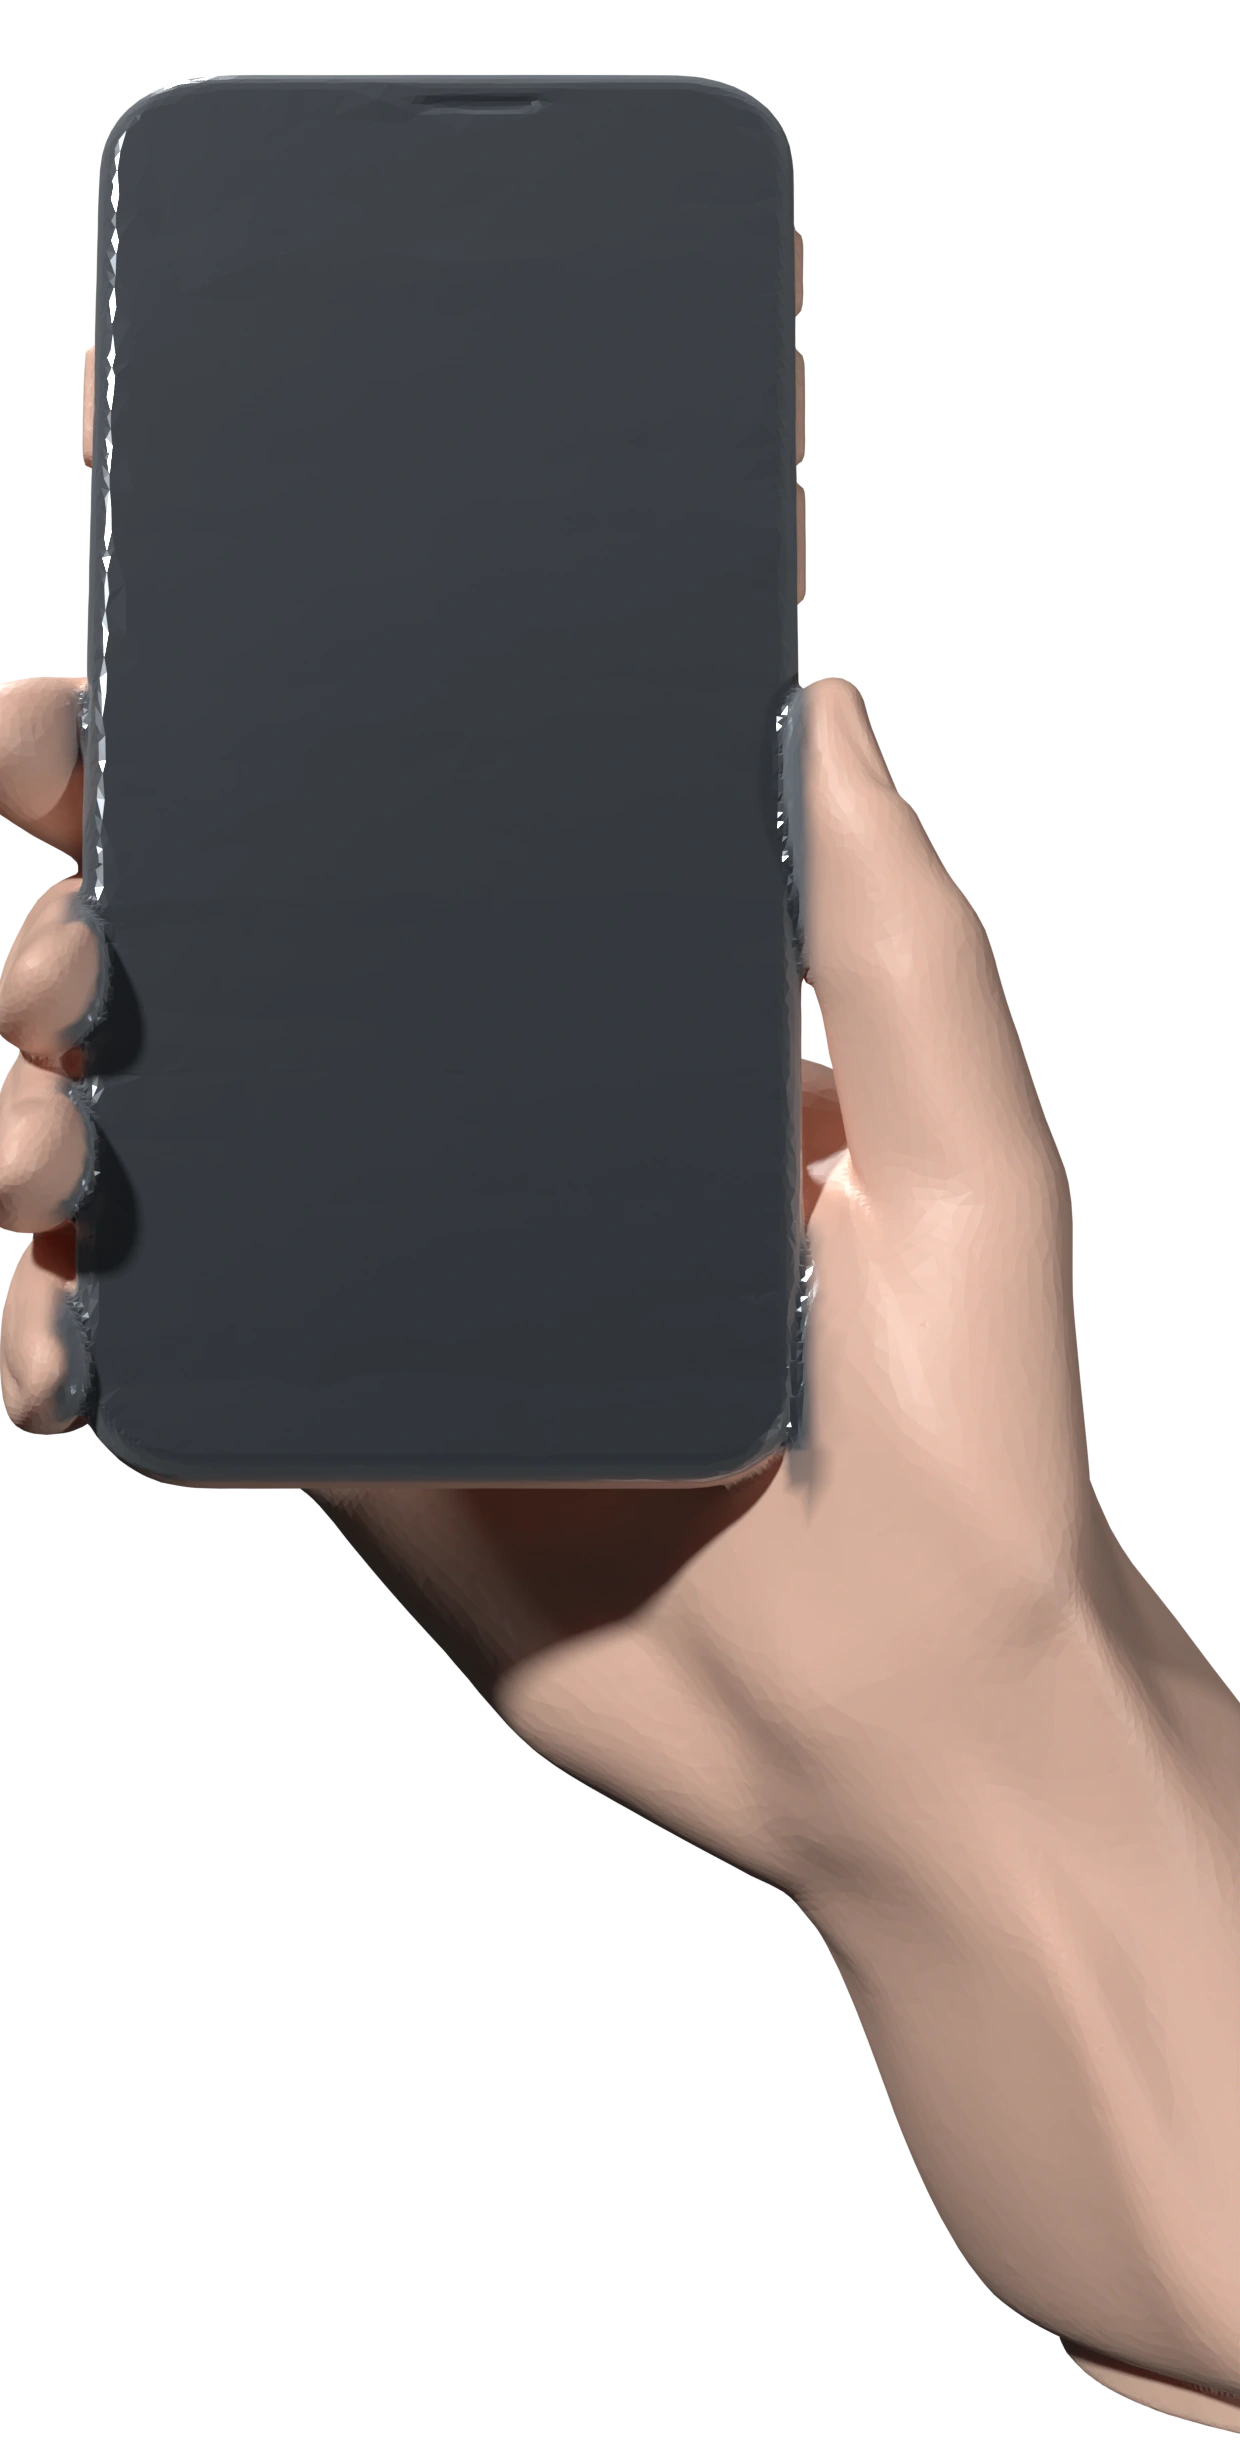
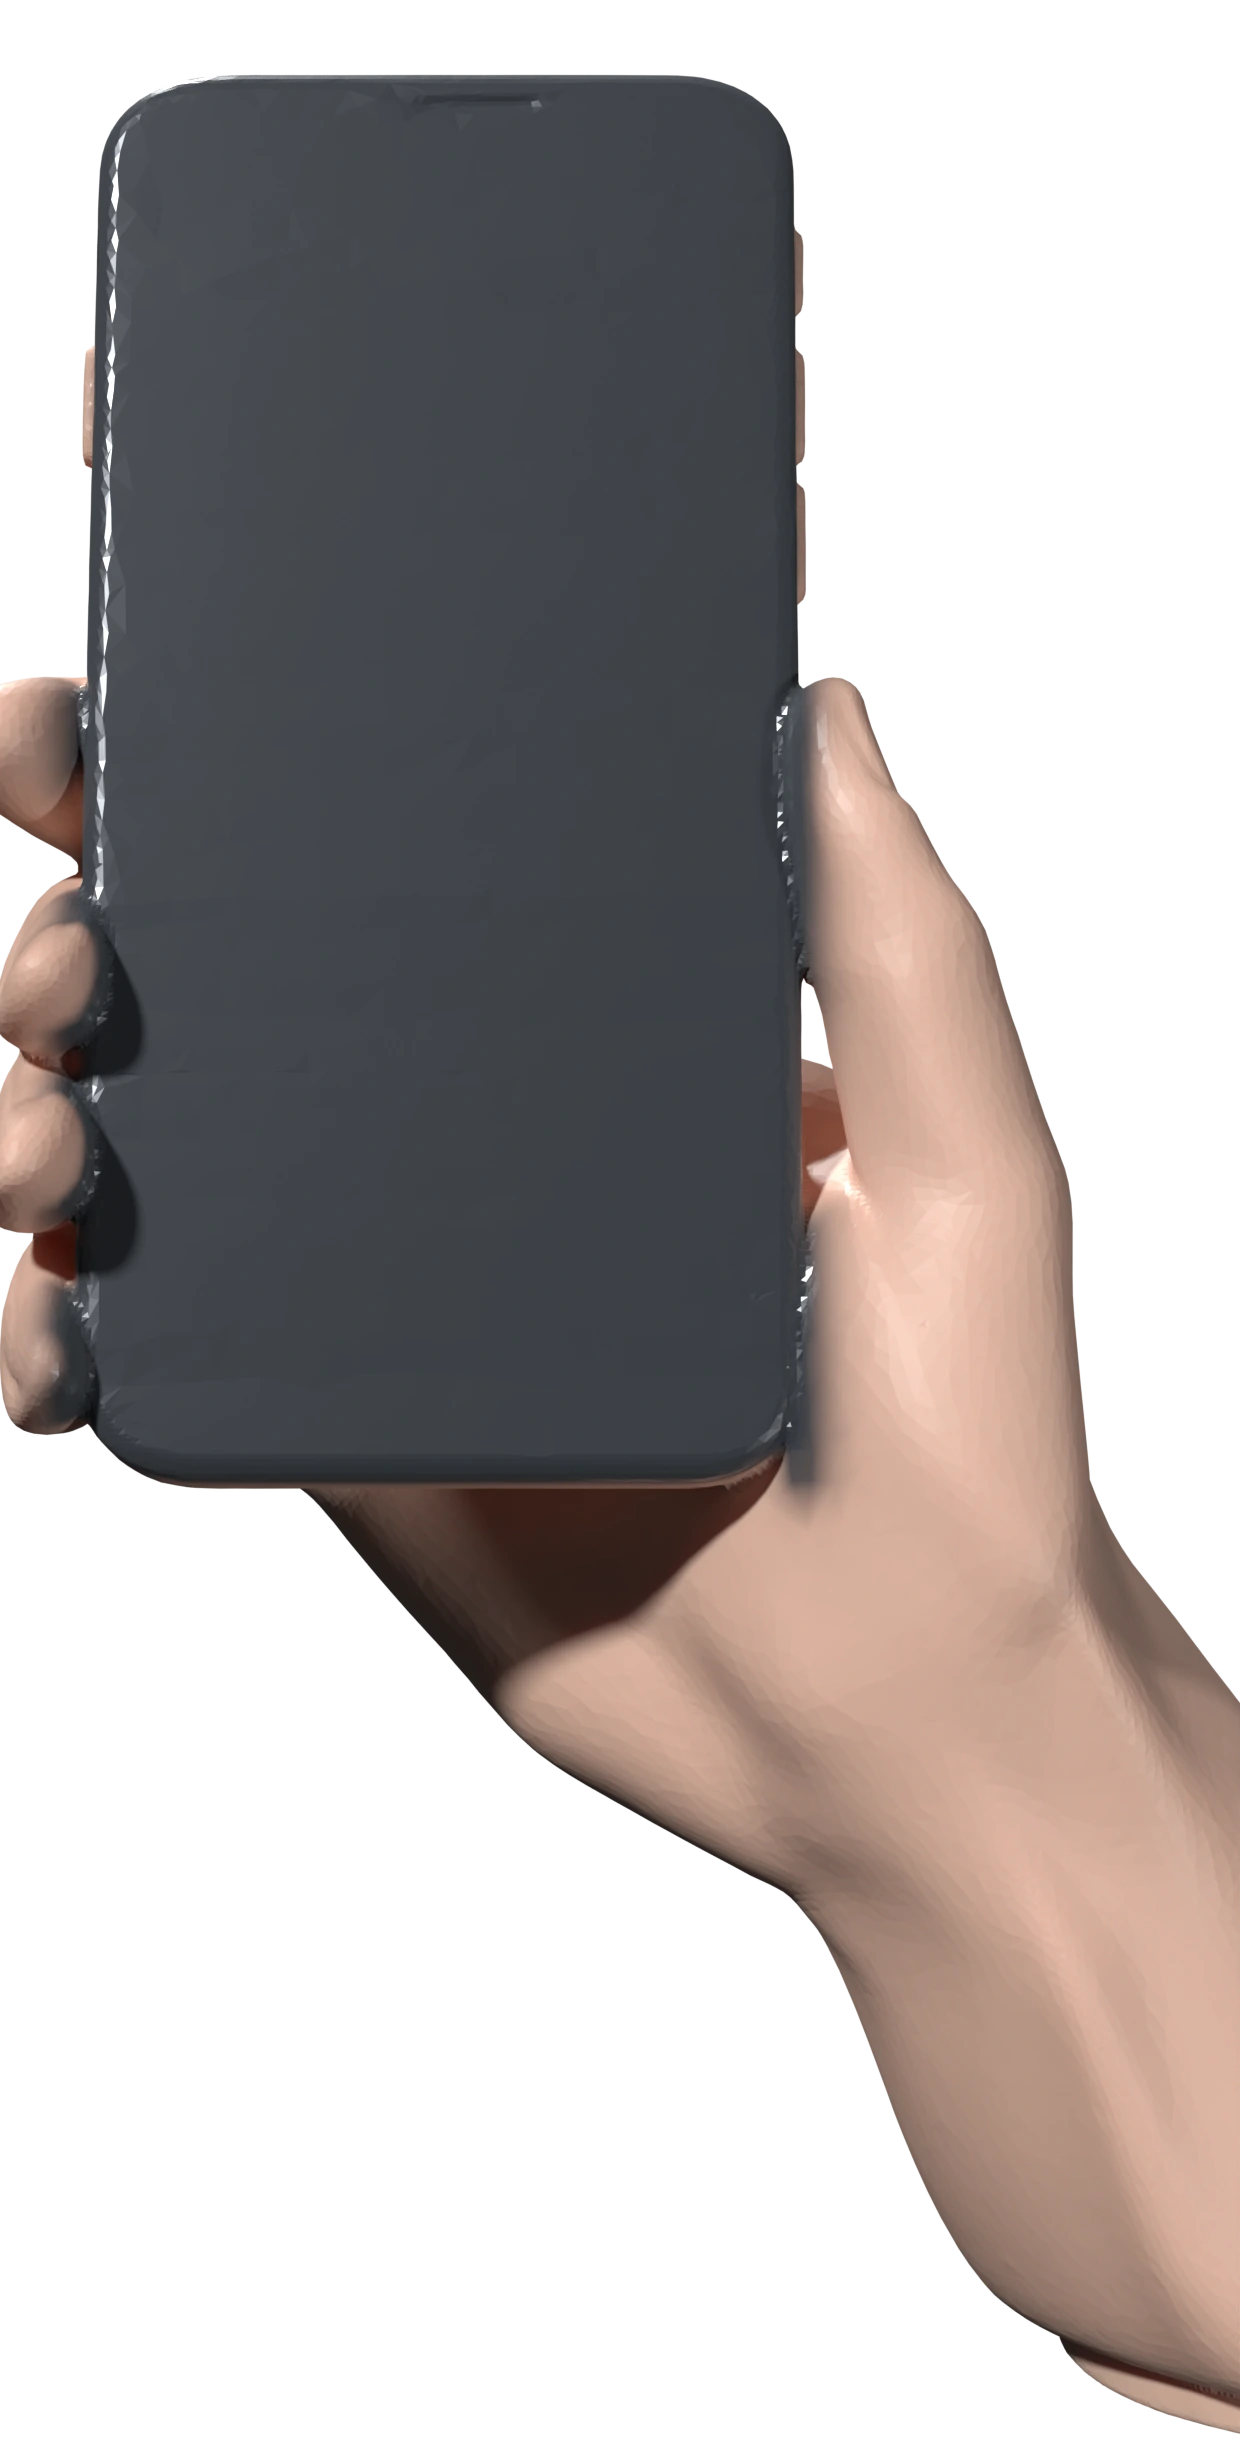
Ekran sığdırma ve kenar geçişini ince ayar
SCREEN payı fazla kısılmıştı (üstten/sağdan ekran içeriği eksik
kalıyordu) — sadece sol kenarda (parmak temas bölgesi) küçük pay
bırakıldı, diğer kenarlar gerçek ölçüme geri döndü. Telefon
malzemesindeki fresnel parlaklığı azaltıldı ve yumuşak geçiş genişliği
artırıldı — kenar artık metalik parlama değil, doğal gölge gibi duruyor.

Changed region(s): [[0.0, 0.0623, 0.0919, 0.5918], [0.5823, 0.4672, 0.7048, 0.623], [0.6129, 0.2803, 0.6742, 0.4361]]

diff --git a/src/lib/stage.ts b/src/lib/stage.ts
@@ -22,7 +22,7 @@ export const HAND_FRAME = { w: 620, h: 1220 };
  * Ekran dikdörtgeni bu fotoğrafta kalan boşluğun piksel ölçümüyle bulundu
  * (measure_screen.py), HAND_FRAME (620×1220) koordinat sisteminde.
  */
-export const SCREEN = { x: 53, y: 47, w: 336, h: 677 };
+export const SCREEN = { x: 49, y: 41, w: 346, h: 689 };
 
 const box = (r: { x: number; y: number; w: number; h: number }, frame: { w: number; h: number }) => ({
   left: `${(r.x / frame.w) * 100}%`,
